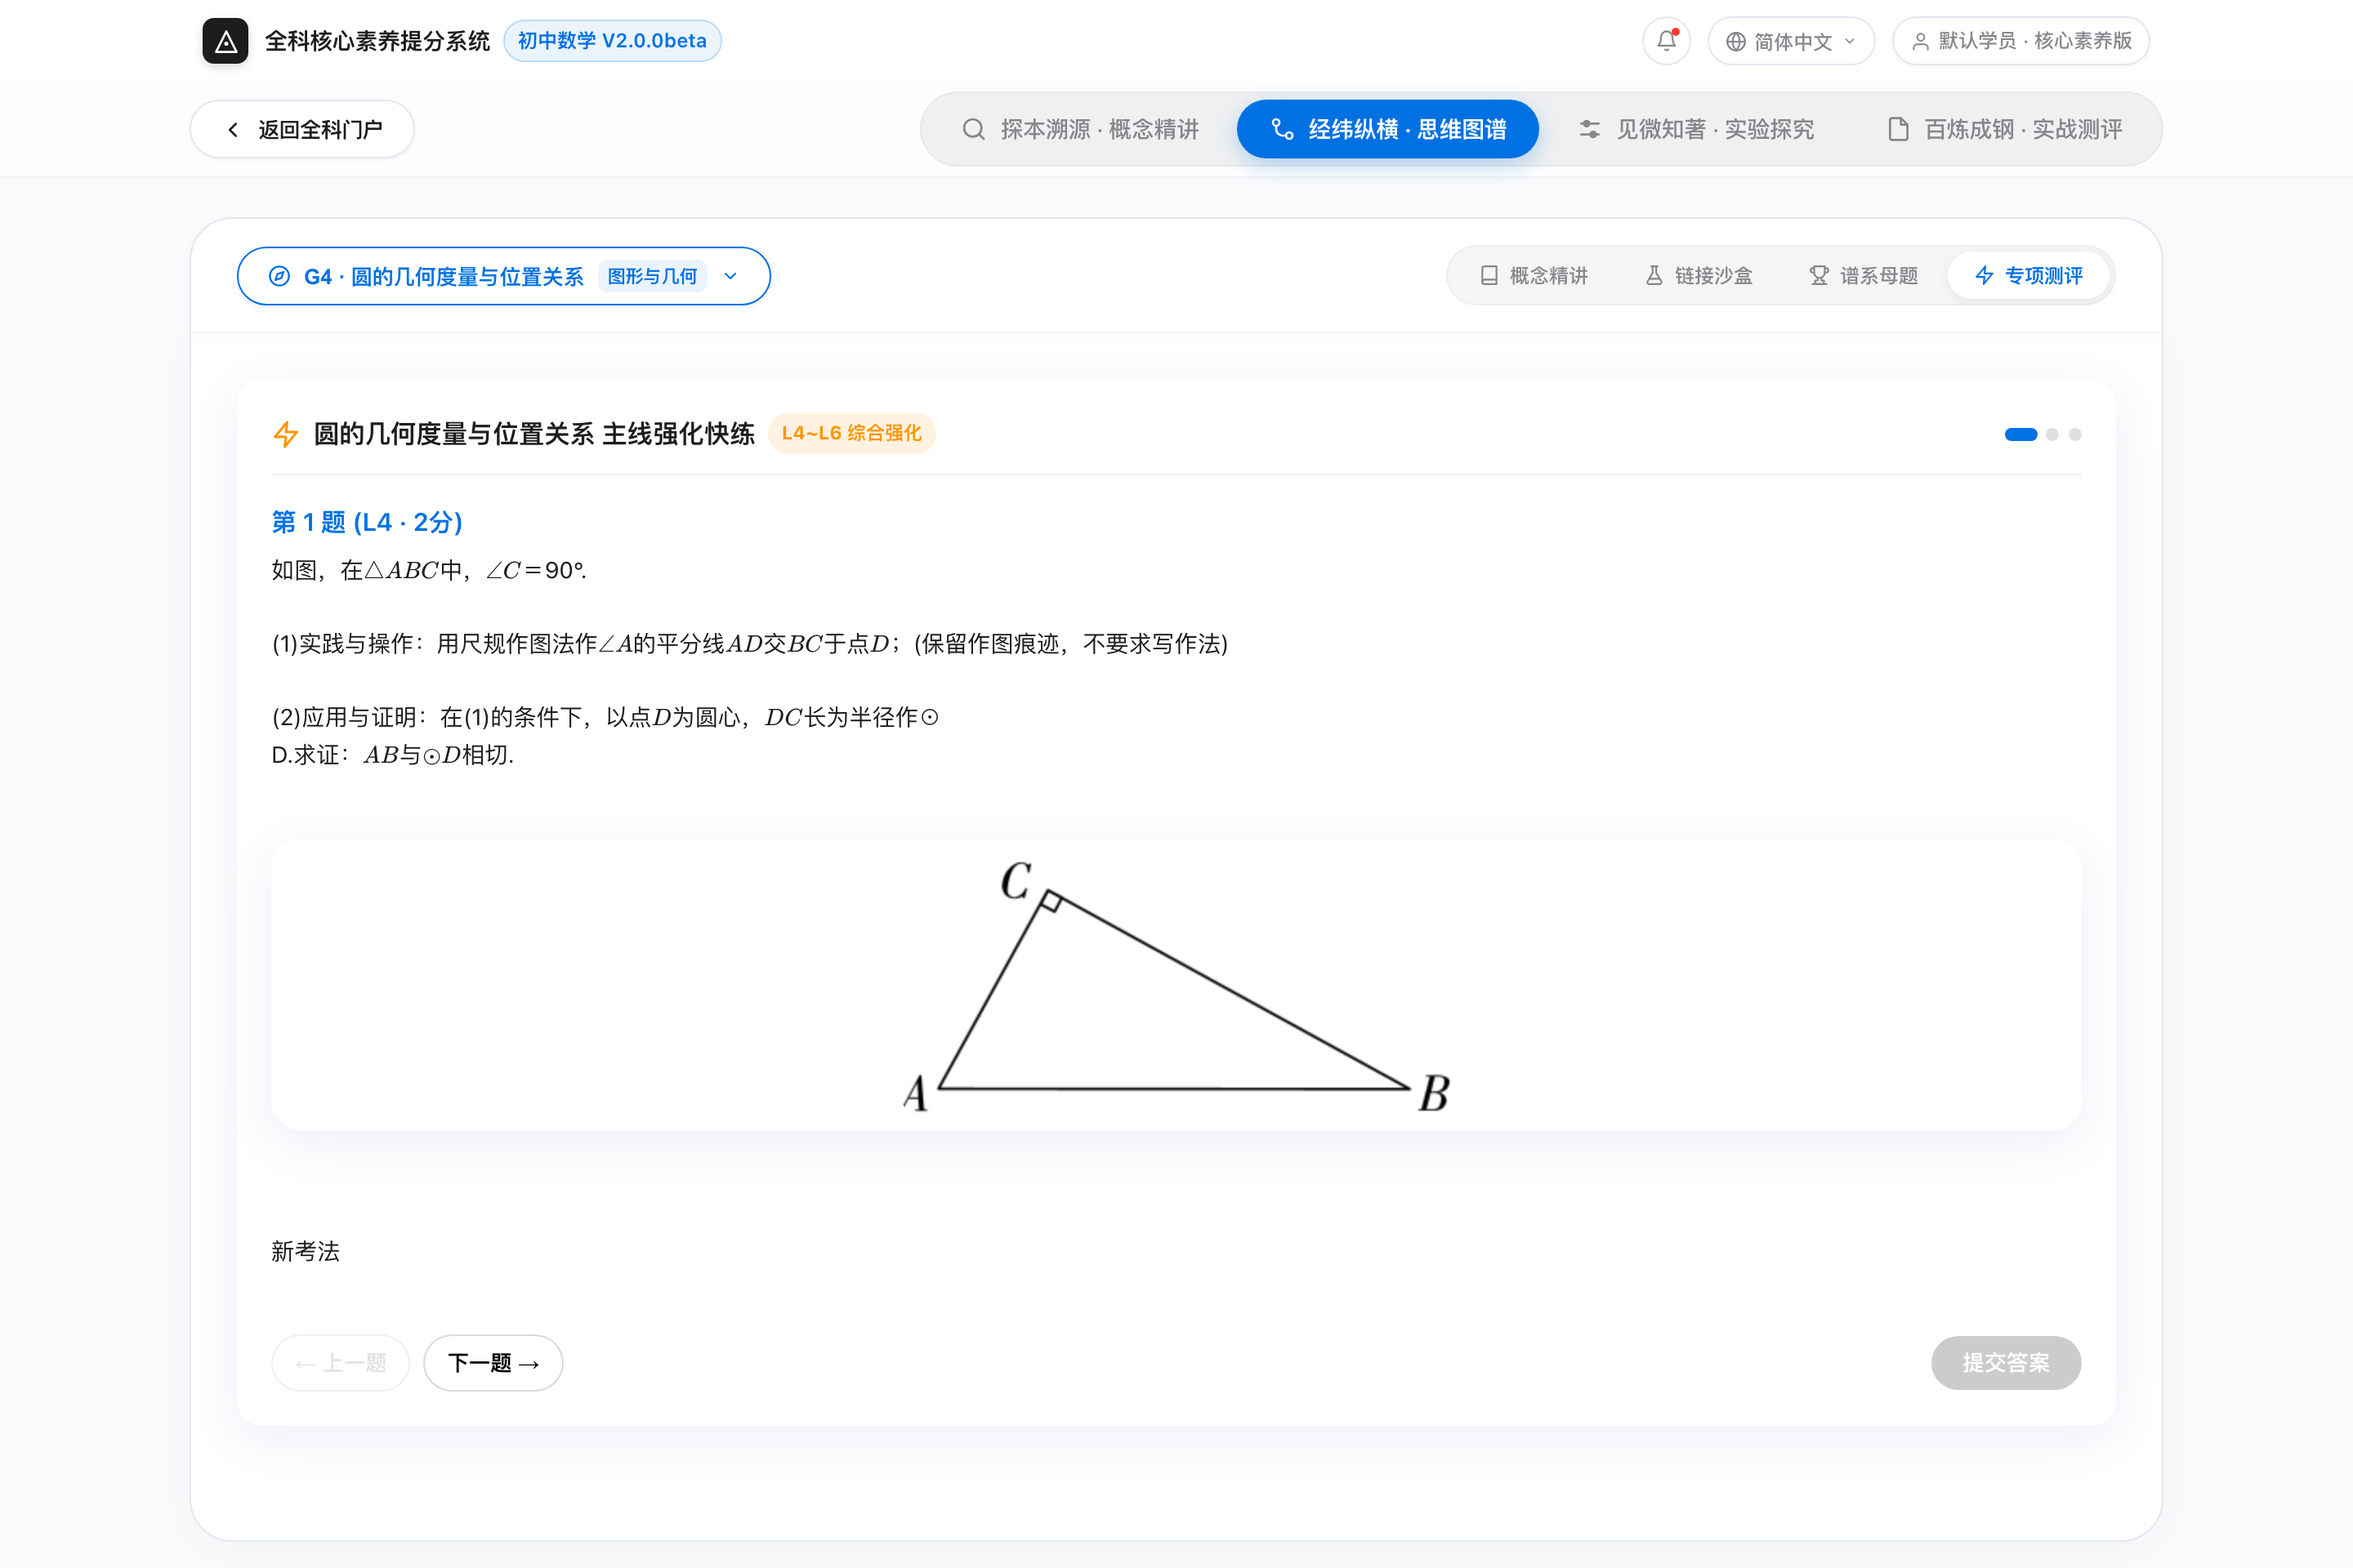
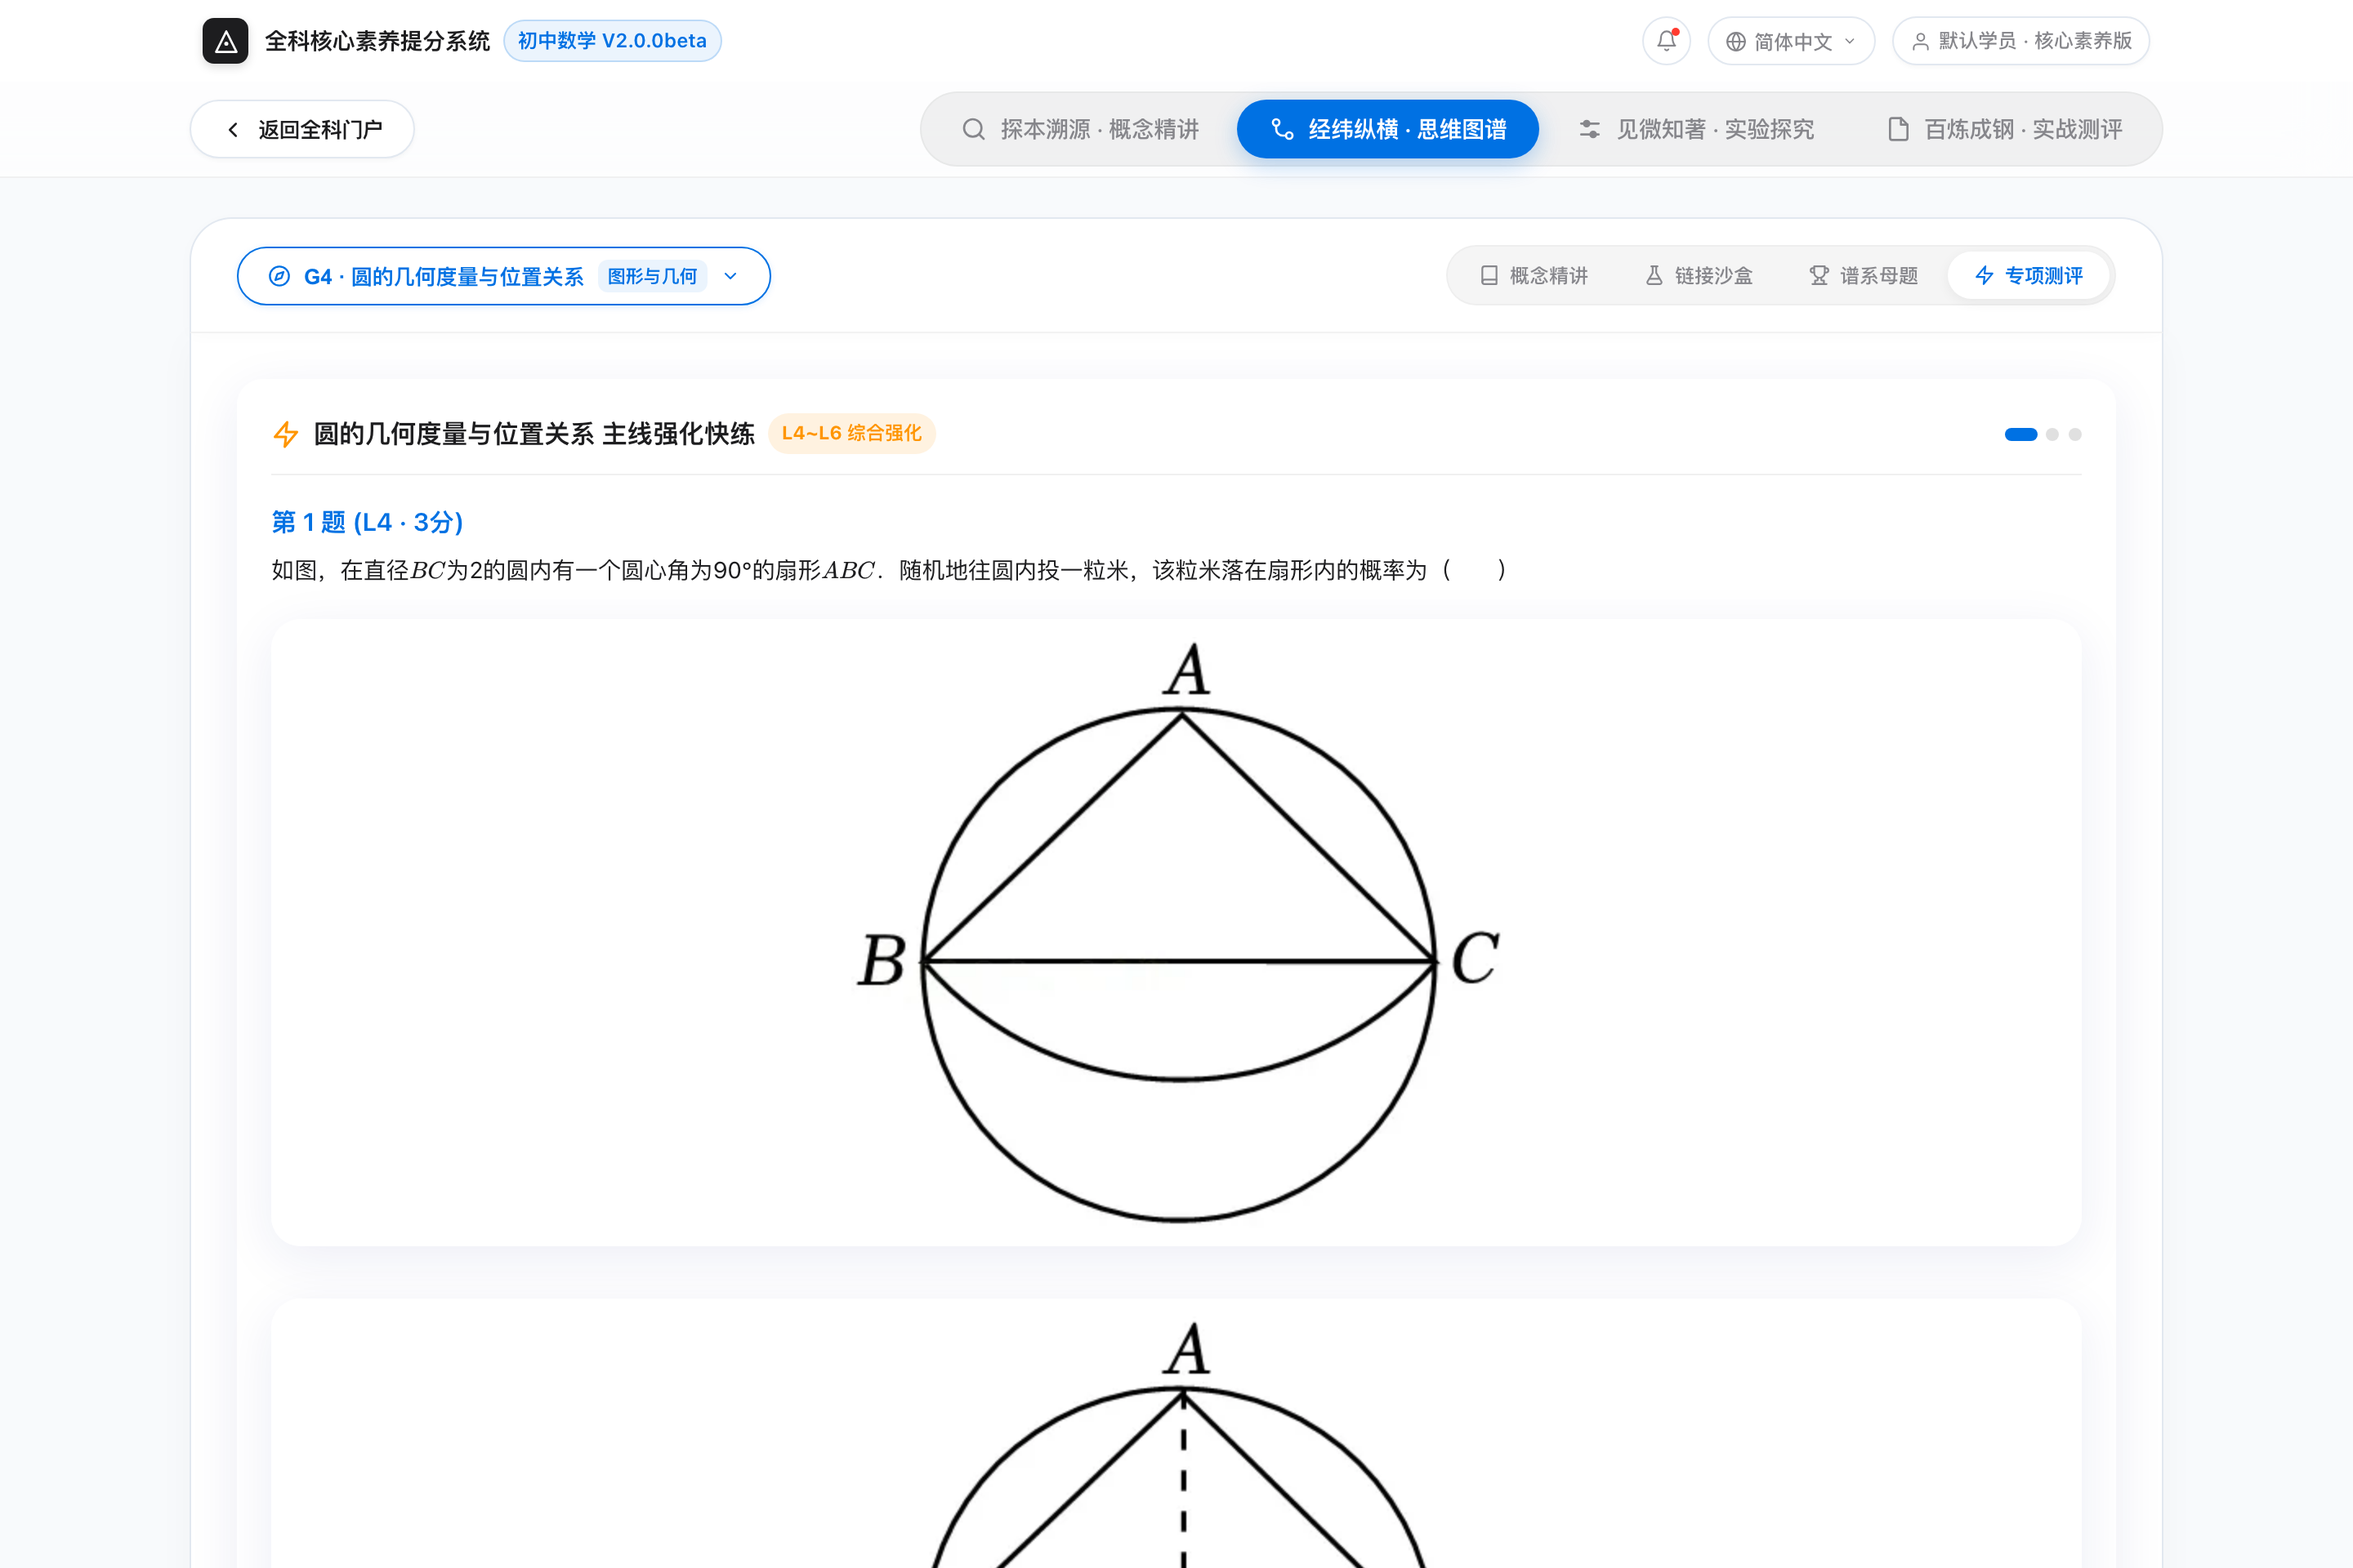
fix(graph): 专项测评保持纯选择题定位，优化真库L4-L6单选直抽与异步题目池联动

diff --git a/src/modules/graph/LineQuickPractice.tsx b/src/modules/graph/LineQuickPractice.tsx
@@ -63,14 +63,14 @@ export const LineQuickPractice: React.FC<LineQuickPracticeProps> = ({
       if (!isL4L6 || !isSingleChoice) return false;
 
       if (pointIds && pointIds.length > 0) {
-        return pointIds.includes(q.primary_point_id);
+        return pointIds.includes(q.primary_point_id) || q.question_id.startsWith(`Q-LINE-${lineId}`);
       }
       if (cliqueIds && cliqueIds.length > 0 && (q as any).combination_id) {
         return cliqueIds.includes((q as any).combination_id);
       }
       return true;
     });
-  }, [allQuestions, pointIds, cliqueIds]);
+  }, [allQuestions, pointIds, cliqueIds, lineId]);
 
   const [currentQuestions, setCurrentQuestions] = useState<QuickPracticeQuestion[]>(() => {
     if (initialQuestions && initialQuestions.length > 0) {
@@ -125,8 +125,12 @@ export const LineQuickPractice: React.FC<LineQuickPracticeProps> = ({
     [presentedIds, currentBatchIds, clearPresentedIds, addPresentedId]
   );
 
-  // 监听 lineId 变化更新题目
+  // 监听 lineId 切换重置
   useEffect(() => {
+    setCurrentIndex(0);
+    setSelectedAnswers({});
+    setIsSubmitted({});
+    setBatchFinished(false);
     if (initialQuestions && initialQuestions.length > 0) {
       const valid = initialQuestions.filter(
         (q) => q.difficulty_level >= 4 && q.difficulty_level <= 6 && q.question_type === 'single_choice'
@@ -134,10 +138,20 @@ export const LineQuickPractice: React.FC<LineQuickPracticeProps> = ({
       setCurrentQuestions(valid);
       setCurrentBatchIds(valid.map((q) => q.question_id));
       valid.forEach((q) => addPresentedId(q.question_id));
-    } else {
+    } else if (linePool.length >= 3) {
       drawNewBatch(linePool);
+    } else {
+      setCurrentQuestions([]);
+      setCurrentBatchIds([]);
     }
   }, [lineId]);
+
+  // 当异步题目数据池到达且当前题目不足 3 题时补抽
+  useEffect(() => {
+    if (!initialQuestions && linePool.length >= 3 && currentQuestions.length < 3) {
+      drawNewBatch(linePool);
+    }
+  }, [linePool, currentQuestions.length, initialQuestions, drawNewBatch]);
 
   // 题库不足 3 题时的友好提示 (§5.1 门禁：严禁默默返回不足题量)
   if (linePool.length < 3) {
@@ -336,6 +350,8 @@ export const LineQuickPractice: React.FC<LineQuickPracticeProps> = ({
                 <button
                   key={opt.key}
                   type="button"
+                  data-testid={`option-${opt.key}`}
+                  className="practice-option-btn"
                   disabled={submitted}
                   onClick={() => handleSelectOption(opt.key)}
                   style={{

diff --git a/src/modules/graph/GraphNav.tsx b/src/modules/graph/GraphNav.tsx
@@ -277,15 +277,12 @@ export const GraphNav: React.FC<GraphNavProps> = ({
         const placeholders = linePointIds.map(() => '?').join(',');
         const rows = await dbClient.query<any>(
           'questions',
-          `SELECT * FROM questions WHERE primary_point_id IN (${placeholders}) ORDER BY RANDOM() LIMIT 20`,
+          `SELECT * FROM questions WHERE primary_point_id IN (${placeholders}) AND question_type = 'single_choice' AND difficulty_level BETWEEN 4 AND 6 ORDER BY RANDOM() LIMIT 20`,
           linePointIds
         );
         if (active && rows && rows.length > 0) {
           const mapped = mapRawRowsToQuestions(rows);
-          const valid = mapped.filter(
-            (q) => q.difficulty_level >= 4 && q.difficulty_level <= 6 && q.question_type === 'single_choice'
-          );
-          if (valid.length >= 3) {
+          if (mapped.length >= 3) {
             setDbPracticeQuestions(mapped);
             return;
           }

diff --git a/.kiro/relay/frontend/outbox/RESULT-FE-0015.md b/.kiro/relay/frontend/outbox/RESULT-FE-0015.md
@@ -108,7 +108,7 @@
 | **03** | `fe0015_03_line_g4_concept.png` | 557,473 bytes | `b568623866bc8cdfd294ef9ca1b6e946` | PASS | 选中 G4 谱系，四段论精讲与右侧 G4 竖向 6 学期泳道图联动更新 |
 | **04** | `fe0015_04_linked_sandbox_g4.png` | 381,330 bytes | `5eedba78c9320eb40b178f004cc5821f` | PASS | 切换至「链接沙盒」Tab，锁定 LM-9A-24，无抽屉按钮，4D 变异控制条可用 |
 | **05** | `fe0015_05_line_master_stepped.png` | 421,234 bytes | `af38634eb736a2394853ce310e970f0d` | PASS | 切换至「谱系母题」Tab，点击第一维解锁按钮，步进解锁展开 |
-| **06** | `fe0015_06_quick_practice_eval.png` | 289,547 bytes | `09c6f4e672c80da8486dfbbd8bc58d68` | PASS | 切换至「专项测评」Tab，限 3 题即答即判，选项交互及解析上屏渲染 |
+| **06** | `fe0015_06_quick_practice_eval.png` | 403,475 bytes | `c4034427dee1184dcbd81d33c1726edb` | PASS | 切换至「专项测评」Tab，限 3 题即答即判，选项交互及解析上屏渲染 |
 
 ---
 
